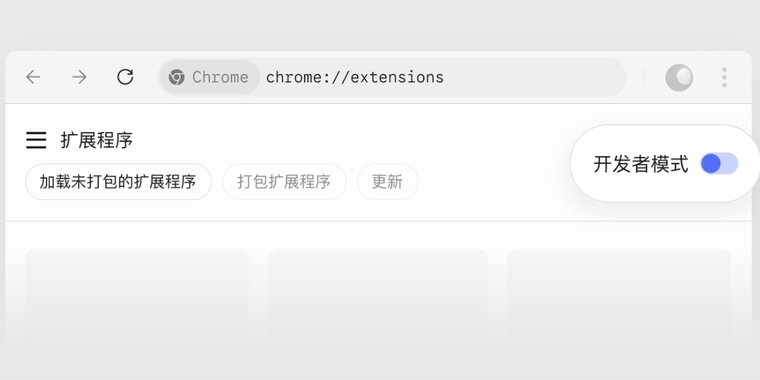
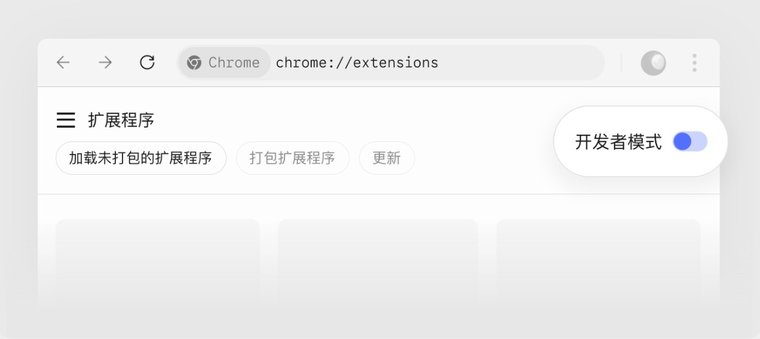
docs: replace WebBridge install screenshots with clean crops
Re-shoot source images: split the two-step manual install guide into
per-step screenshots with clean edges, and replace the ready-state popup
screenshot with the toolbar-icon success indicator.

diff --git a/docs/en/customization/plugins.md b/docs/en/customization/plugins.md
@@ -152,9 +152,9 @@ If you can't reach the stores, install manually:
 
    ![Load the unpacked extension](../../media/webbridge-load-unpacked.jpeg)
 
-Once installed, click the Kimi WebBridge extension icon in the browser toolbar; if it shows the browser assistant is ready, the installation is complete and AI can start working on web pages for you.
+Once installed, the Kimi WebBridge icon appears in the browser toolbar. Seeing the icon means the installation succeeded, and AI can start working on web pages for you.
 
-![Kimi WebBridge is ready](../../media/webbridge-ready.jpeg)
+![The Kimi WebBridge icon in the browser toolbar](../../media/webbridge-install-success.jpeg)
 
 #### What you can do
 

diff --git a/docs/zh/customization/plugins.md b/docs/zh/customization/plugins.md
@@ -152,9 +152,9 @@ Kimi WebBridge 让 AI 直接操控你的浏览器，带着你的登录状态和 
 
    ![加载未打包的扩展程序](../../media/webbridge-load-unpacked.jpeg)
 
-装好后点击浏览器工具栏的 Kimi WebBridge 扩展图标，显示**浏览器助手已就绪**即安装成功，之后就可以让 AI 帮你操作网页了。
+装好后，浏览器工具栏会出现 Kimi WebBridge 图标，看到图标即安装成功，之后就可以让 AI 帮你操作网页了。
 
-![Kimi WebBridge 已就绪](../../media/webbridge-ready.jpeg)
+![工具栏出现 Kimi WebBridge 图标](../../media/webbridge-install-success.jpeg)
 
 #### 能做什么
 
